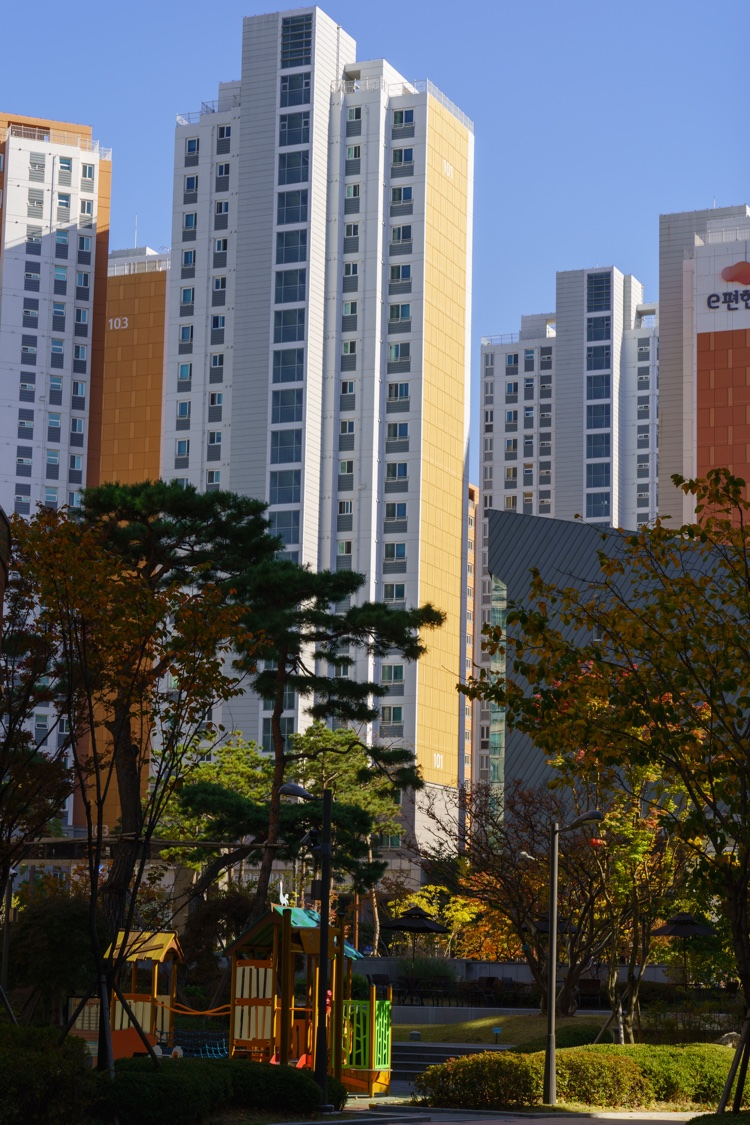
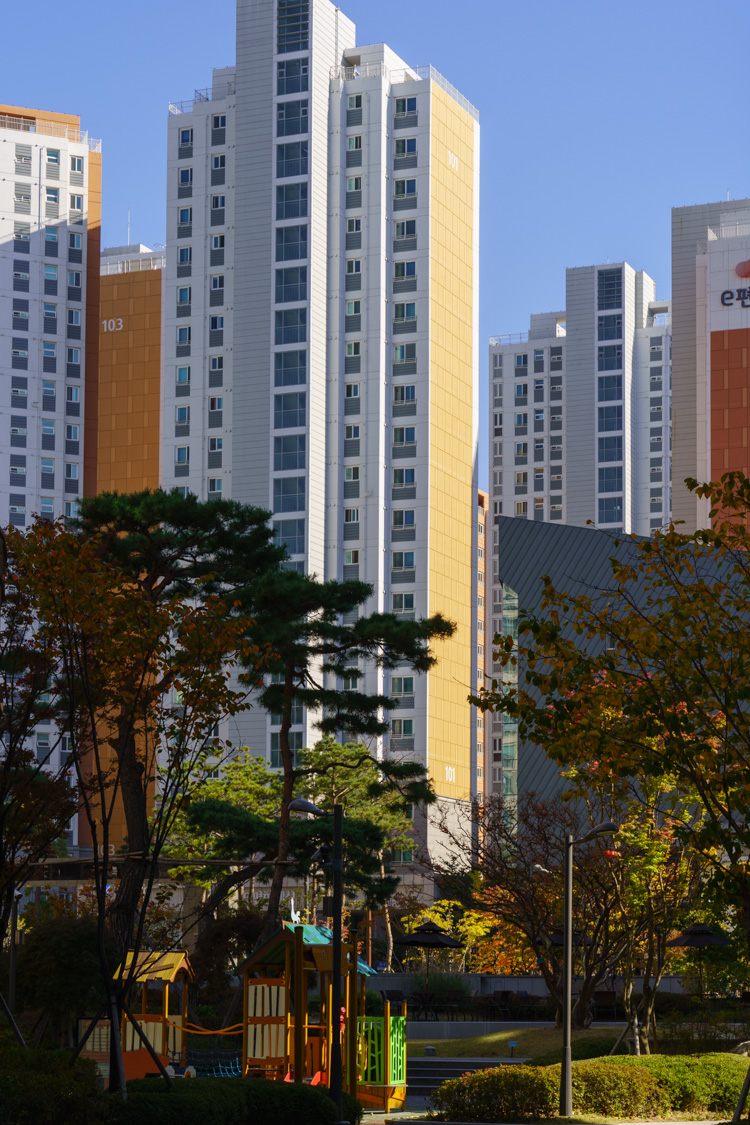
Added new post about grocery shopping
Updated also the format of the old posts. Reuploaded one image.

diff --git a/_posts/2017-12-19-grocery-shopping.md b/_posts/2017-12-19-grocery-shopping.md
@@ -1,0 +1,24 @@
+---
+layout: post
+title: "Grocery Shopping in Korea"
+date: 2017-12-19 14:15:00
+categories: Korea
+---
+
+A few days ago I cam across an [article][1] regarding the percentage of grocery shopping spent online. The article included the chart below.
+
+![Infographic: Where the Most Groceries Are Bought Online | Statista]({{ site.url }}/assets/images/statistica-where-the-most-groceries-are-bought-online.jpg)
+
+My thought and experience are actually different. Our household with four persons buys the majority of groceries online. [Emart][2] a local grocery retailer, offers same day or next day delivery. You will need to find a delivery slot from the Emart in your area, usually starting form the early morning until the late evening. If you buy at least two times per month Emart will give you free delivery coupons. So we order all the heavy stuff there including the mineral water. Usually you can order all item from the dedicated phone app, but the web interface is still a little bit more convenient.
+
+For vegetables, fruits and meat we use the organic grocery stores located near our home. Again there are several organic chain stores in Korea, the one we use are [Dure (두레생협연합)][3], [Hansalim (한살림)][4], and [Chorocmael (초록마을)][5], in that order. Even though all three shops have a website were you can place orders, we usually just call the local shop and tell them what we want and they delivery for free on the same day. Since you have to register yourself with all of the shops, they know address. In Dure you pay a small membership fee, that is refundable, when the membership is terminated. They use the accumulated membership fees as security for the delivery, so you can pay later when you pro by their shop. So this are technically not online order, but we still don’t carry stuff home from the mart, and order stuff just using the phone.
+
+I think these things are so popular in Korea, since the people tend to be occupied with their work until the late evening. So it is convenient to manage your shopping on the commute. One thing that cannot be order online is alcohol. Thus if you are looking for a bottle of wine online you will be sad.
+
+As the article mentioned, the internet speed in Korea is fast. However that does not translate into a good shopping experience. Often Korean websites are build on old dark age frameworks optimized for Internet Explorer using Active X plugins to display or secure content. Pages generally lack usability, they are colorful, display annoying popups, and generally load huge amount of data and images. Thus internet is fast, but it doesn’t feel fast. 
+
+[1]:	https://www.weforum.org/agenda/2017/12/south-koreans-buy-the-most-groceries-online-by-far/ "South Koreans buy the most groceries online, by far"
+[2]:	http://emart.ssg.com "Emart"
+[3]:	http://dure-coop.or.kr "두레생협연합"
+[4]:	http://www.hansalim.or.kr "한살림소비자생활협동조합연합회"
+[5]:	http://www.choroc.com/green/index.jsp "초록마을"

diff --git a/_posts/2016-12-16-korean-corporate-strategy.md b/_posts/2016-12-16-korean-corporate-strategy.md
@@ -1,7 +1,7 @@
 ---
 layout: post
-title:  "Korean Corporate Strategy"
-date:   2016-12-16 17:00:00
+title: "Korean Corporate Strategy"
+date: 2016-12-16 17:00:00
 categories: Korea
 ---
 
@@ -12,7 +12,7 @@ However my observation form working several year in the corporate Korean world i
 If the core technology is missing, business becomes more opportunistic and market driven. Management is looking for chances instead of developing new markets by applying new technologies.
 
 
-In general Korean seem to have a strong follower culture, very loyal and dedicated. Individualism is not appreciated and people that stick out are usually marked. Thus the corporate management is looking to other companies for inspiration and examples to follow. The very best example is Samsung and Apple, but you could extend this to basically all areas of the corporate Korea. 
+In general Korean seem to have a strong follower culture, very loyal and dedicated. Individualism is not appreciated and people that stick out are usually marked. Thus the corporate management is looking to other companies for inspiration and examples to follow. The very best example is Samsung and Apple, but you could extend this to basically all areas of the corporate Korea.
 
 
-This lack of vision and strategic planning is one of the reason of the dwindling competitiveness of Korea's economy. It seems very likely that Korea to at the beginning of a long recession or low growth period, with significant restructuring and painfully adapting to the new China reality. 
+This lack of vision and strategic planning is one of the reason of the dwindling competitiveness of Korea's economy. It seems very likely that Korea to at the beginning of a long recession or low growth period, with significant restructuring and painfully adapting to the new China reality.

diff --git a/_posts/2015-10-23-autumn-in-korea.md b/_posts/2015-10-23-autumn-in-korea.md
@@ -1,0 +1,12 @@
+---
+layout: post
+title: "Autumn in Korea"
+date: 2015-10-23 15:00:00
+categories: Korea
+---
+
+A few days ago the Korea Tourism Organization's Twitter account released some "[stunning pictures](https://twitter.com/koreatourism/status/656254846824148992)" praising the Autumn in Korea. Since they are based in Los Angeles maybe they are not aware of the current weather situation in Korea.  
+
+![Sunny morning in Seoul]({{ site.url }}/assets/images/sunny-morning.jpg)
+
+The picture was taken on Wednesday 23. in the morning from our living room. The white circle is the sun. This weather condition is becoming quiet common in recent years, especially in the Winter. It is smog with hazardous concentrations of fine particles. Due to a dominating west wind, the Korean peninsular is getting a good share of China air pollution additionally to the pollution generated within the country itself. Until now the Korean Government does not seem to take any major actions, probably to not pressure the already weak industry with new environmental regulations.

diff --git a/_posts/2015-07-16-fau-erlangen-beamer-template.md b/_posts/2015-07-16-fau-erlangen-beamer-template.md
@@ -1,7 +1,7 @@
 ---
 layout: post
-title:  "FAU Erlangen Beamer Template"
-date:   2015-07-16 16:23:00
+title: "FAU Erlangen Beamer Template"
+date: 2015-07-16 16:23:00
 categories: TeX
 ---
 

diff --git a/_posts/2015-07-20-fau-erlangen-thesis-template.md b/_posts/2015-07-20-fau-erlangen-thesis-template.md
@@ -1,7 +1,7 @@
 ---
 layout: post
-title:  "LaTeX Thesis Template"
-date:   2015-07-19 22:00:00
+title: "LaTeX Thesis Template"
+date: 2015-07-19 22:00:00
 categories: TeX
 ---
 

diff --git a/_posts/2017-11-30-convenient-korea.md b/_posts/2017-11-30-convenient-korea.md
@@ -1,7 +1,7 @@
 ---
 layout: post
-title:  Convenient Korea
-date:   2017-11-30 21:45:00
+title: "Convenient Korea"
+date: 2017-11-30 21:45:00
 categories: Korea
 ---
 
